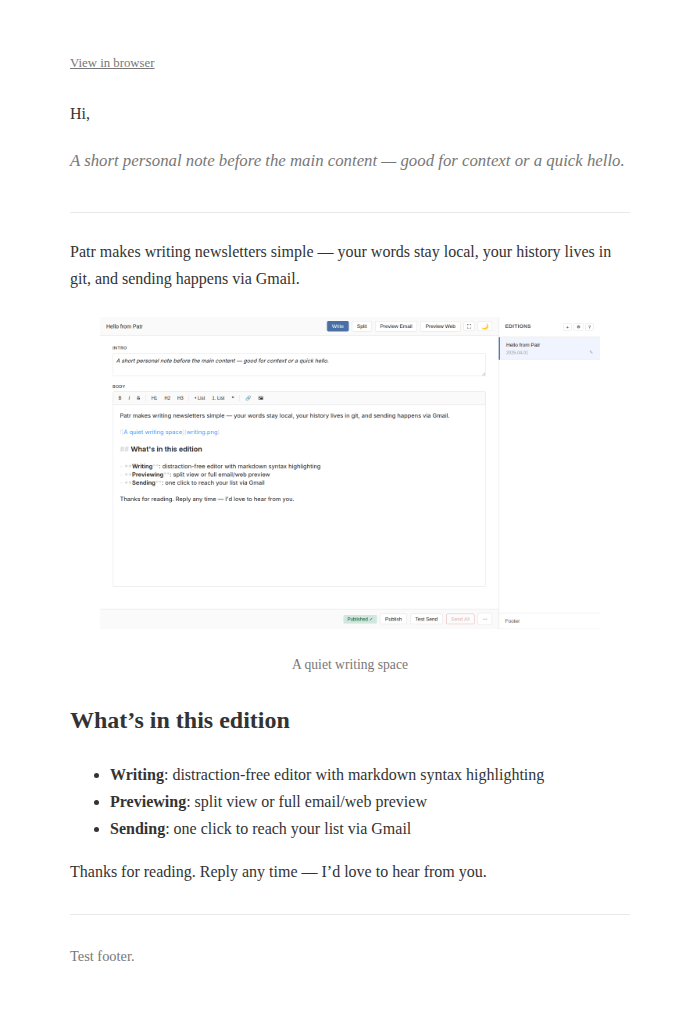
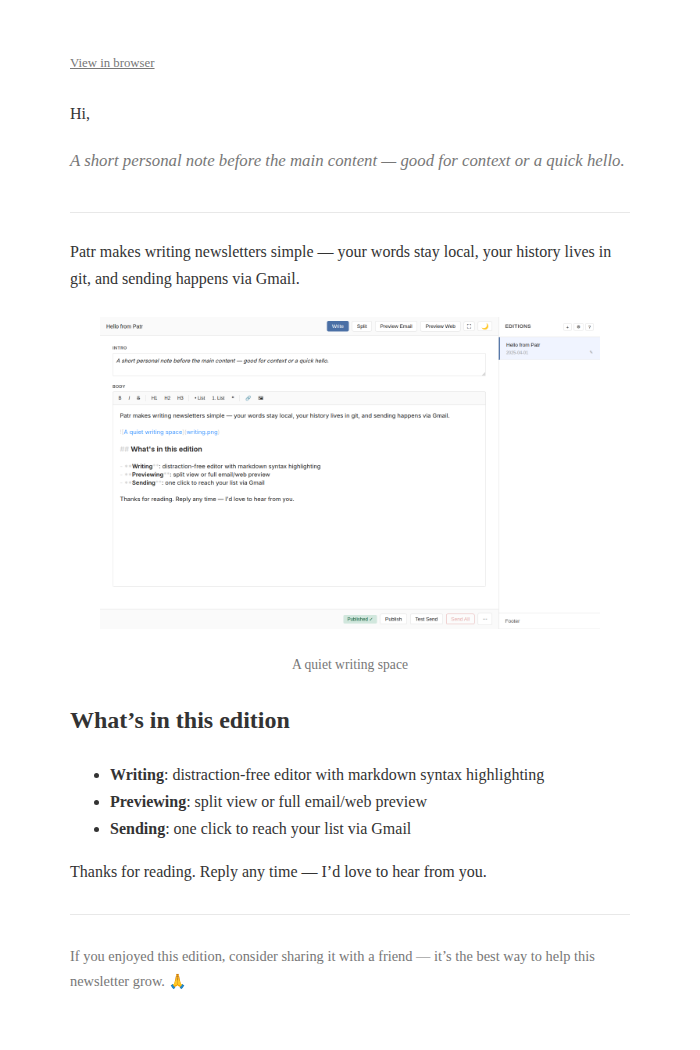
Improve footer content in screenshot fixture

diff --git a/tests/test_e2e.py b/tests/test_e2e.py
@@ -29,7 +29,9 @@ def repo(tmp_path_factory):
     footer = nl / "footer"
     footer.mkdir()
     (footer / "index.md").write_text(
-        "---\ntitle: Footer\n_build:\n  render: never\n  list: never\n---\n\nTest footer.\n"
+        "---\ntitle: Footer\n_build:\n  render: never\n  list: never\n---\n\n"
+        "If you enjoyed this edition, consider sharing it with a friend — "
+        "it's the best way to help this newsletter grow. 🙏\n"
     )
     state.REPO_ROOT = tmp
     state.CONTENT_DIR = nl
